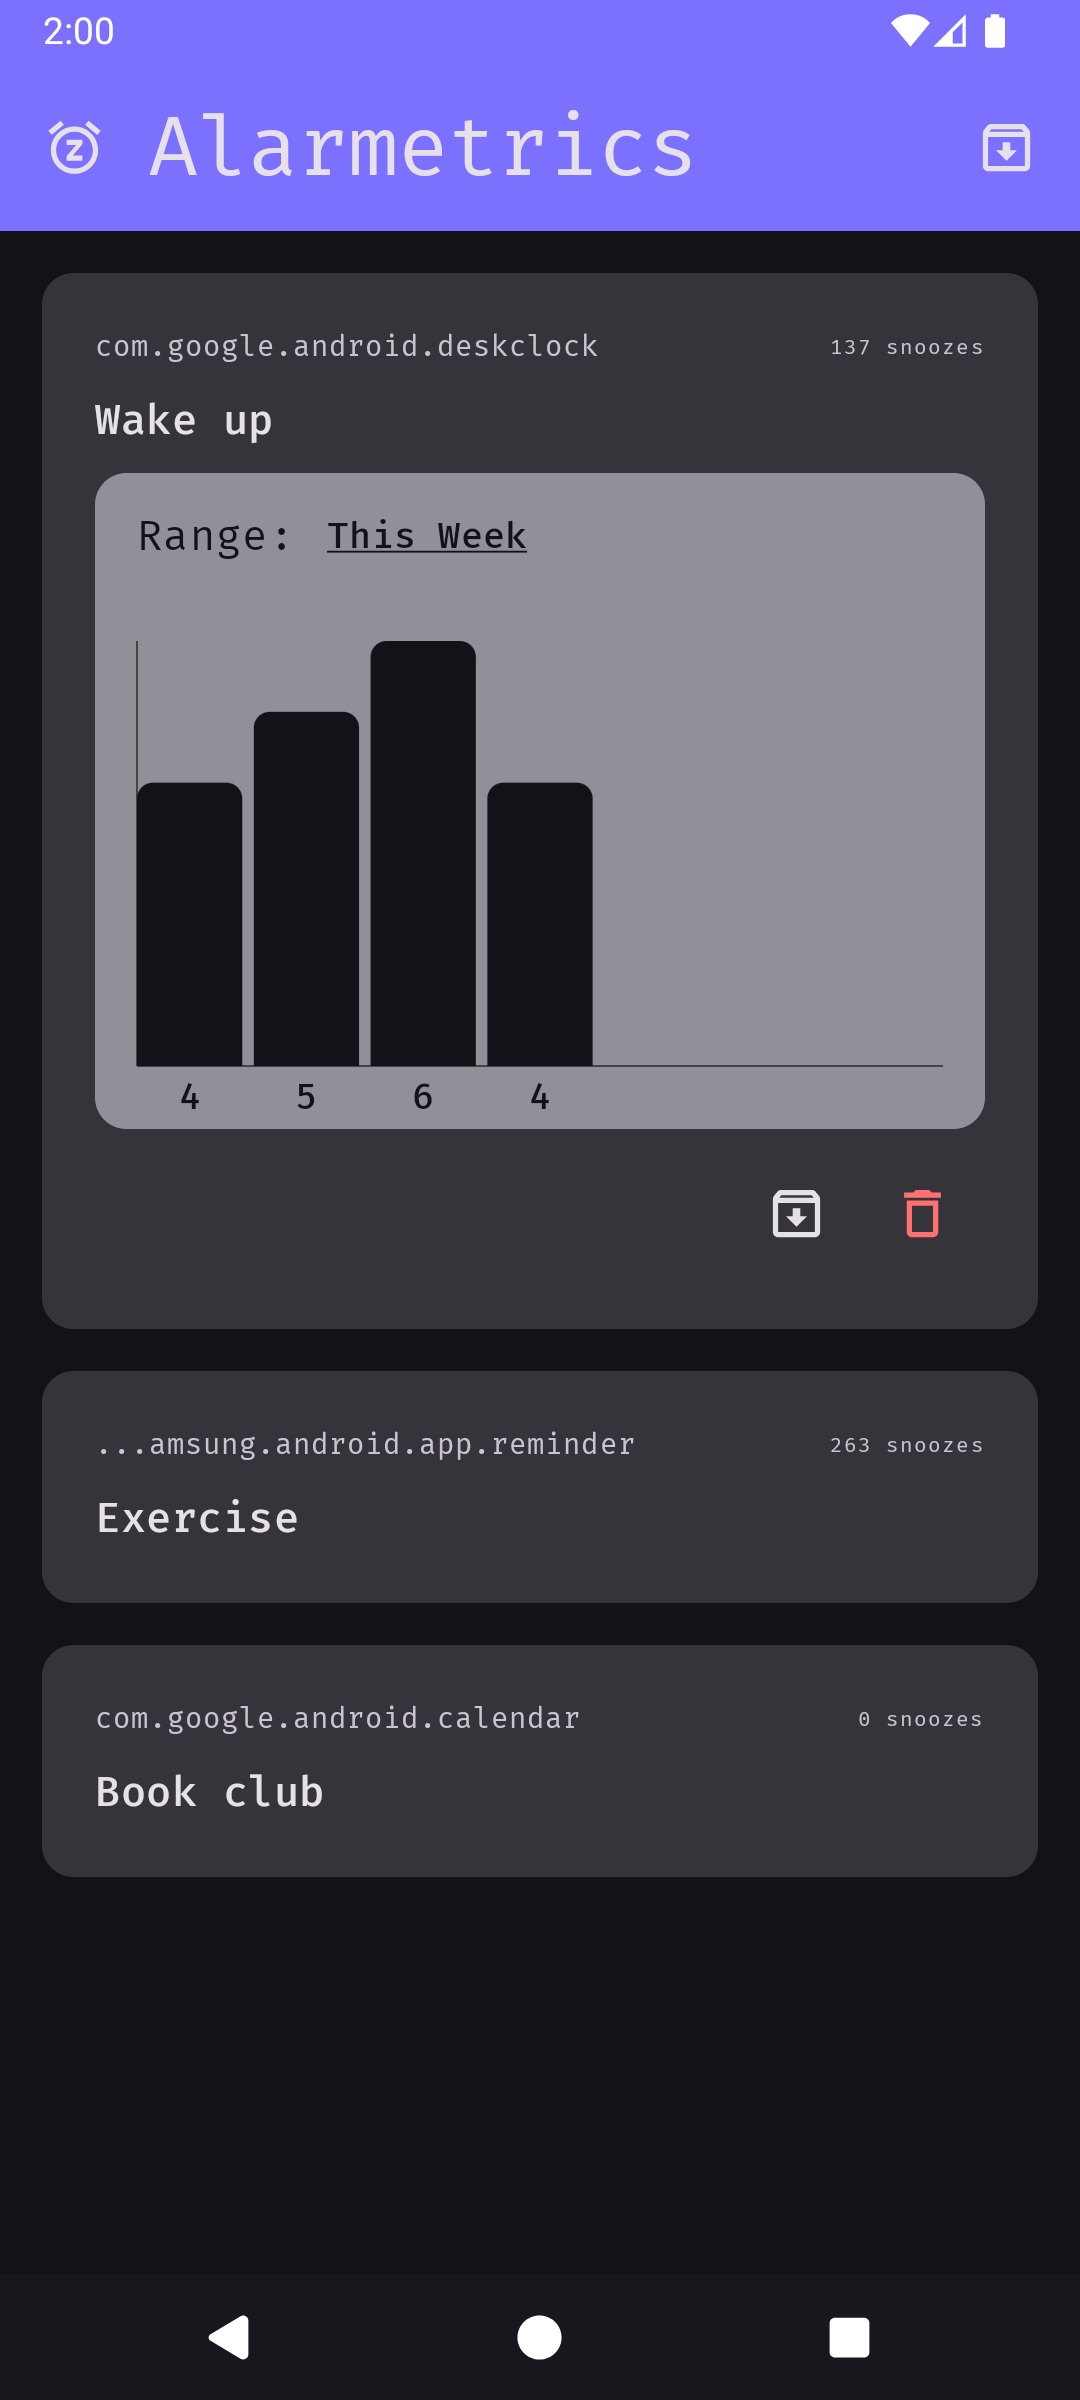
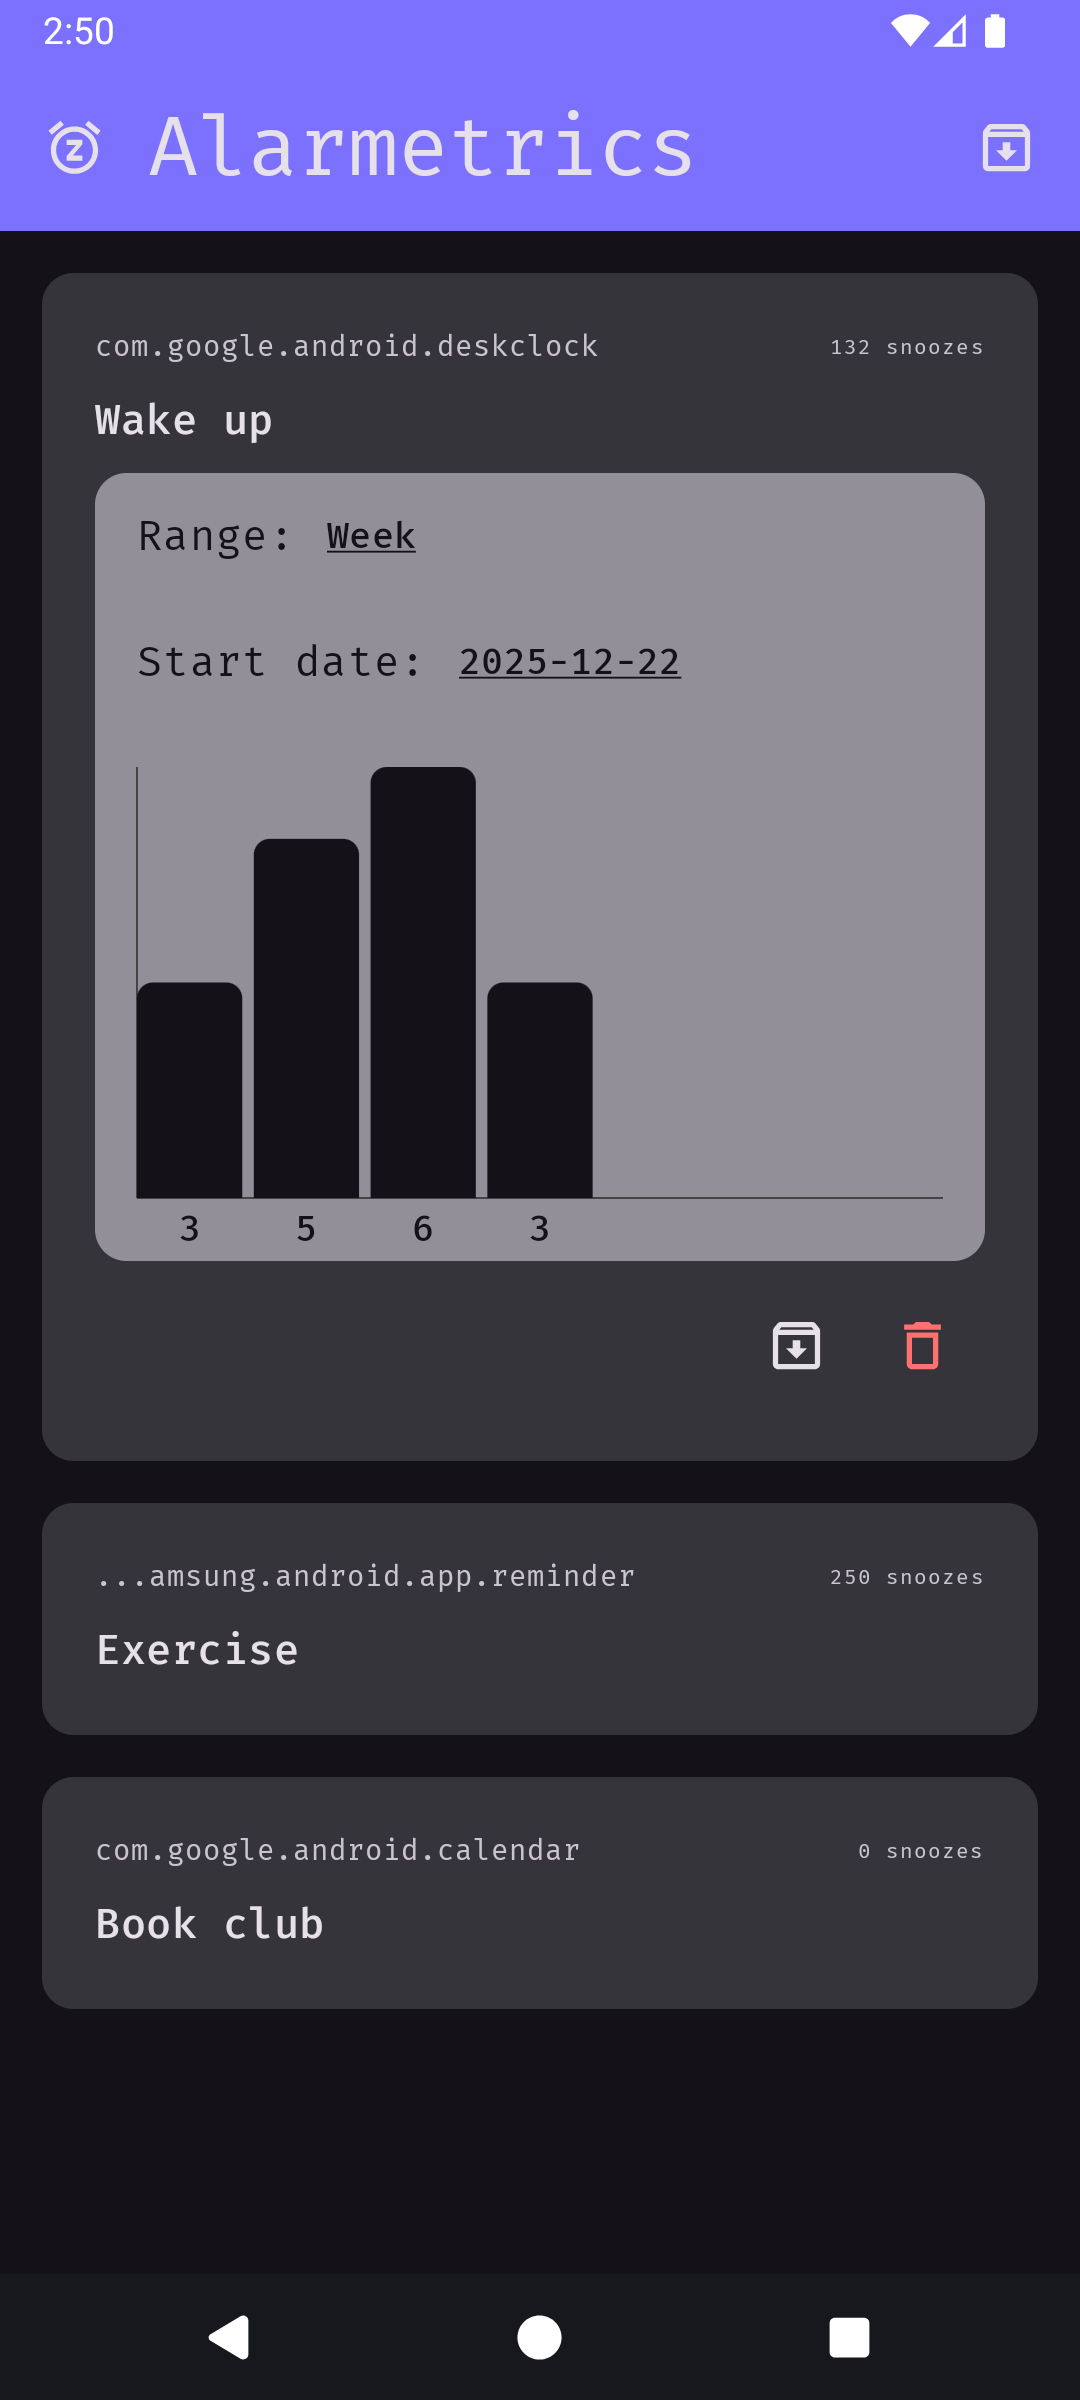
Display non-latest ranges

Changed region(s): [[0.0306, 0.2188, 0.9778, 0.8438], [0.1833, 0.25, 0.2139, 0.2812], [0.1222, 0.25, 0.1528, 0.2812]]

diff --git a/app/src/main/java/co/adityarajput/alarmetrics/views/screens/alarms/Chart.kt b/app/src/main/java/co/adityarajput/alarmetrics/views/screens/alarms/Chart.kt
@@ -1,7 +1,8 @@
 package co.adityarajput.alarmetrics.views.screens.alarms
 
-import android.util.Log
 import androidx.compose.foundation.layout.*
+import androidx.compose.foundation.lazy.LazyColumn
+import androidx.compose.foundation.lazy.itemsIndexed
 import androidx.compose.material3.*
 import androidx.compose.runtime.*
 import androidx.compose.ui.Alignment
@@ -16,6 +17,9 @@ import androidx.lifecycle.viewmodel.compose.viewModel
 import co.adityarajput.alarmetrics.R
 import co.adityarajput.alarmetrics.data.alarm.Alarm
 import co.adityarajput.alarmetrics.enums.Range
+import co.adityarajput.alarmetrics.utils.getStartOfRange
+import co.adityarajput.alarmetrics.utils.minus
+import co.adityarajput.alarmetrics.utils.toDate
 import co.adityarajput.alarmetrics.viewmodels.AlarmsViewModel
 import co.adityarajput.alarmetrics.viewmodels.Provider
 import com.himanshoe.charty.bar.BarChart
@@ -29,40 +33,95 @@ fun Chart(
     alarm: Alarm,
     viewModel: AlarmsViewModel = viewModel(factory = Provider.Factory),
 ) {
+    var rangeDropdownExpanded by remember { mutableStateOf(false) }
     var range by remember { mutableStateOf(Range.WEEK) }
-    var offset by remember { mutableIntStateOf(0) }
-    val counts = viewModel.getChartData(alarm, range, offset).collectAsState()
+
+    var dateDropdownExpanded by remember { mutableStateOf(false) }
+    var dateDropdownOffset by remember(range) { mutableIntStateOf(0) }
+    var startDate by remember(range) {
+        mutableLongStateOf(
+            System.currentTimeMillis().getStartOfRange(range),
+        )
+    }
+
+    val counts = viewModel.getChartData(alarm, range, startDate).collectAsState()
 
     Card(
         Modifier
             .fillMaxWidth()
-            .height(250.dp),
+            .height(300.dp),
         colors = CardDefaults.cardColors(containerColor = MaterialTheme.colorScheme.outline),
     ) {
         Row(
             Modifier.padding(start = dimensionResource(R.dimen.padding_medium)),
             verticalAlignment = Alignment.CenterVertically,
         ) {
-            var expanded by remember { mutableStateOf(false) }
-
             Text(stringResource(R.string.range), color = MaterialTheme.colorScheme.surface)
             Box {
-                TextButton({ expanded = true }) {
+                TextButton({ rangeDropdownExpanded = true }) {
                     Text(
                         stringResource(range.displayName),
                         color = MaterialTheme.colorScheme.surface,
                         textDecoration = TextDecoration.Underline,
                     )
                 }
-                DropdownMenu(expanded, { expanded = false }) {
+                DropdownMenu(rangeDropdownExpanded, { rangeDropdownExpanded = false }) {
                     Range.entries.forEach {
                         DropdownMenuItem(
                             { Text(stringResource(it.displayName)) },
                             {
                                 range = it
-                                expanded = false
+                                rangeDropdownExpanded = false
                             },
                         )
+                    }
+                }
+            }
+        }
+        Row(
+            Modifier.padding(start = dimensionResource(R.dimen.padding_medium)),
+            verticalAlignment = Alignment.CenterVertically,
+        ) {
+            Text(stringResource(R.string.start_date), color = MaterialTheme.colorScheme.surface)
+            Box {
+                TextButton({ dateDropdownExpanded = true }) {
+                    Text(
+                        startDate.toDate().toString(),
+                        color = MaterialTheme.colorScheme.surface,
+                        textDecoration = TextDecoration.Underline,
+                    )
+                }
+                DropdownMenu(
+                    dateDropdownExpanded,
+                    { dateDropdownExpanded = false },
+                    Modifier
+                        .height(300.dp)
+                        .width(180.dp),
+                ) {
+                    val nowWithOffset = System.currentTimeMillis().minus(dateDropdownOffset, range)
+                    val options = List(20) { nowWithOffset.minus(it, range).getStartOfRange(range) }
+                    var lastLoadedIndex by remember { mutableIntStateOf(-1) }
+
+                    LazyColumn(
+                        Modifier
+                            .height(300.dp)
+                            .width(180.dp),
+                    ) {
+                        itemsIndexed(options) { index, timestamp ->
+                            DropdownMenuItem(
+                                { Text(timestamp.toDate().toString()) },
+                                {
+                                    startDate = timestamp
+                                    dateDropdownExpanded = false
+                                },
+                            )
+                            if (index == options.lastIndex - 2 && lastLoadedIndex != index) {
+                                LaunchedEffect(index) {
+                                    lastLoadedIndex = index
+                                    dateDropdownOffset += 10
+                                }
+                            }
+                        }
                     }
                 }
             }
@@ -75,7 +134,6 @@ fun Chart(
             val barColor = MaterialTheme.colorScheme.surface.asSolidChartColor()
             val barBackgroundColor = Color.Transparent.asSolidChartColor()
 
-            // TODO: Try charty v3
             BarChart(
                 {
                     counts.value.state!!.map {
@@ -101,10 +159,6 @@ fun Chart(
                     xAxisCharCount = 3,
                     labelTextStyle = MaterialTheme.typography.labelLarge.copy(MaterialTheme.colorScheme.surface),
                 ),
-                onBarClick = { i, _ ->
-                    // TODO: Navigate to that subrange with offset
-                    Log.d("AlarmsScreen", "Clicked bar $i")
-                },
             )
         }
     }

diff --git a/app/src/main/java/co/adityarajput/alarmetrics/viewmodels/AlarmsViewModel.kt b/app/src/main/java/co/adityarajput/alarmetrics/viewmodels/AlarmsViewModel.kt
@@ -13,9 +13,7 @@ import co.adityarajput.alarmetrics.data.record.RecordsRepository
 import co.adityarajput.alarmetrics.enums.DialogState
 import co.adityarajput.alarmetrics.enums.Range
 import co.adityarajput.alarmetrics.utils.getEndOfRange
-import co.adityarajput.alarmetrics.utils.getStartOfRange
 import co.adityarajput.alarmetrics.utils.indexIn
-import co.adityarajput.alarmetrics.utils.minus
 import kotlinx.coroutines.flow.*
 import kotlinx.coroutines.launch
 
@@ -37,16 +35,10 @@ class AlarmsViewModel(
 
     var selectedAlarm by mutableStateOf<Alarm?>(null)
 
-    fun getChartData(
-        alarm: Alarm,
-        range: Range,
-        offset: Int,
-    ): StateFlow<ChartState> {
+    fun getChartData(alarm: Alarm, range: Range, from: Long): StateFlow<ChartState> {
         val flow = MutableStateFlow(ChartState())
 
-        val nowWithOffset = System.currentTimeMillis().minus(offset, range)
-        val from = nowWithOffset.getStartOfRange(range)
-        val to = nowWithOffset.getEndOfRange(range)
+        val to = from.getEndOfRange(range)
 
         viewModelScope.launch {
             recordsRepository.list(alarm.id, from, to).collect { records ->

diff --git a/app/src/main/java/co/adityarajput/alarmetrics/utils/Date.kt b/app/src/main/java/co/adityarajput/alarmetrics/utils/Date.kt
@@ -19,7 +19,7 @@ fun Long.minus(offset: Int, range: Range): Long {
         Range.WEEK -> this.toDate().minusWeeks(offset.toLong()).plusDays(1)
         Range.MONTH -> this.toDate().minusMonths(offset.toLong()).plusDays(1)
         Range.YEAR -> this.toDate().minusYears(offset.toLong()).plusDays(1)
-        else -> this.toDate()
+        else -> this.toDate().minusYears(offset * 10L).plusDays(1)
     }
 
     return offsetDate.millisAtStartOfDay() + (this % (24 * 60 * 60 * 1000))

diff --git a/app/src/main/java/co/adityarajput/alarmetrics/enums/Range.kt b/app/src/main/java/co/adityarajput/alarmetrics/enums/Range.kt
@@ -3,10 +3,10 @@ package co.adityarajput.alarmetrics.enums
 import co.adityarajput.alarmetrics.R
 
 enum class Range(val displayName: Int) {
-    WEEK(R.string.this_week),
-    MONTH(R.string.this_month),
-    YEAR(R.string.this_year),
-    DECADE(R.string.this_decade);
+    WEEK(R.string.week),
+    MONTH(R.string.month),
+    YEAR(R.string.year),
+    DECADE(R.string.decade);
 
     fun unit(): Range {
         return when (this) {
